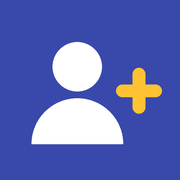
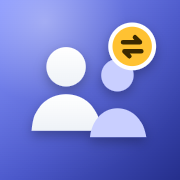
Αναπληρώσεις: νέα μοντέρνα εικονίδια

diff --git a/anaplirwseis/sw.js b/anaplirwseis/sw.js
@@ -1,5 +1,5 @@
 // Offline για την εφαρμογή Αναπληρώσεων. Άλλαξε το VERSION σε κάθε έκδοση.
-const VERSION = 'anapl-v2';
+const VERSION = 'anapl-v3';
 const SHELL = ['./', 'index.html', 'manifest.webmanifest', 'icon-192.png', 'icon-512.png', 'apple-touch-icon.png', '../gr/exceljs.min.js'];
 const LIBS = ['https://cdnjs.cloudflare.com/ajax/libs/jszip/3.10.1/jszip.min.js'];
 self.addEventListener('install', e => {
